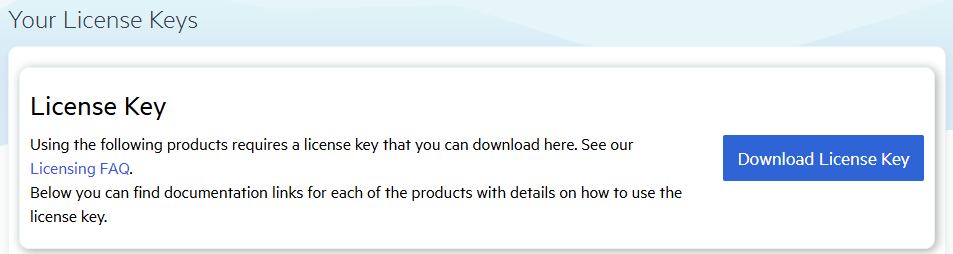
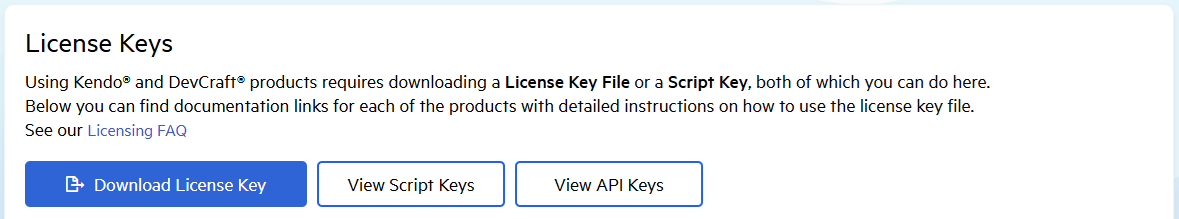
Minor licensing docs updates based on redesign in the License Keys page.

diff --git a/licensing/license-key.md b/licensing/license-key.md
@@ -76,7 +76,9 @@ If you add the Telerik components to your project by referencing the Telerik ass
 
 1. Go to the [License Keys page](https://www.telerik.com/account/your-licenses/license-keys) in your Telerik account.
 
-1. On the Telerik UI for WinForms row, click the **View key** link in the **SCRIPT KEY** column.
+1. Click the __View Script Keys__ button.
+
+1. In the drop down menu, select the __Progress® Telerik® UI for WinForms__ product.
 
     ![Download a Telerik UI for WinForms Script Key](./images/download-script-key.png)
 
